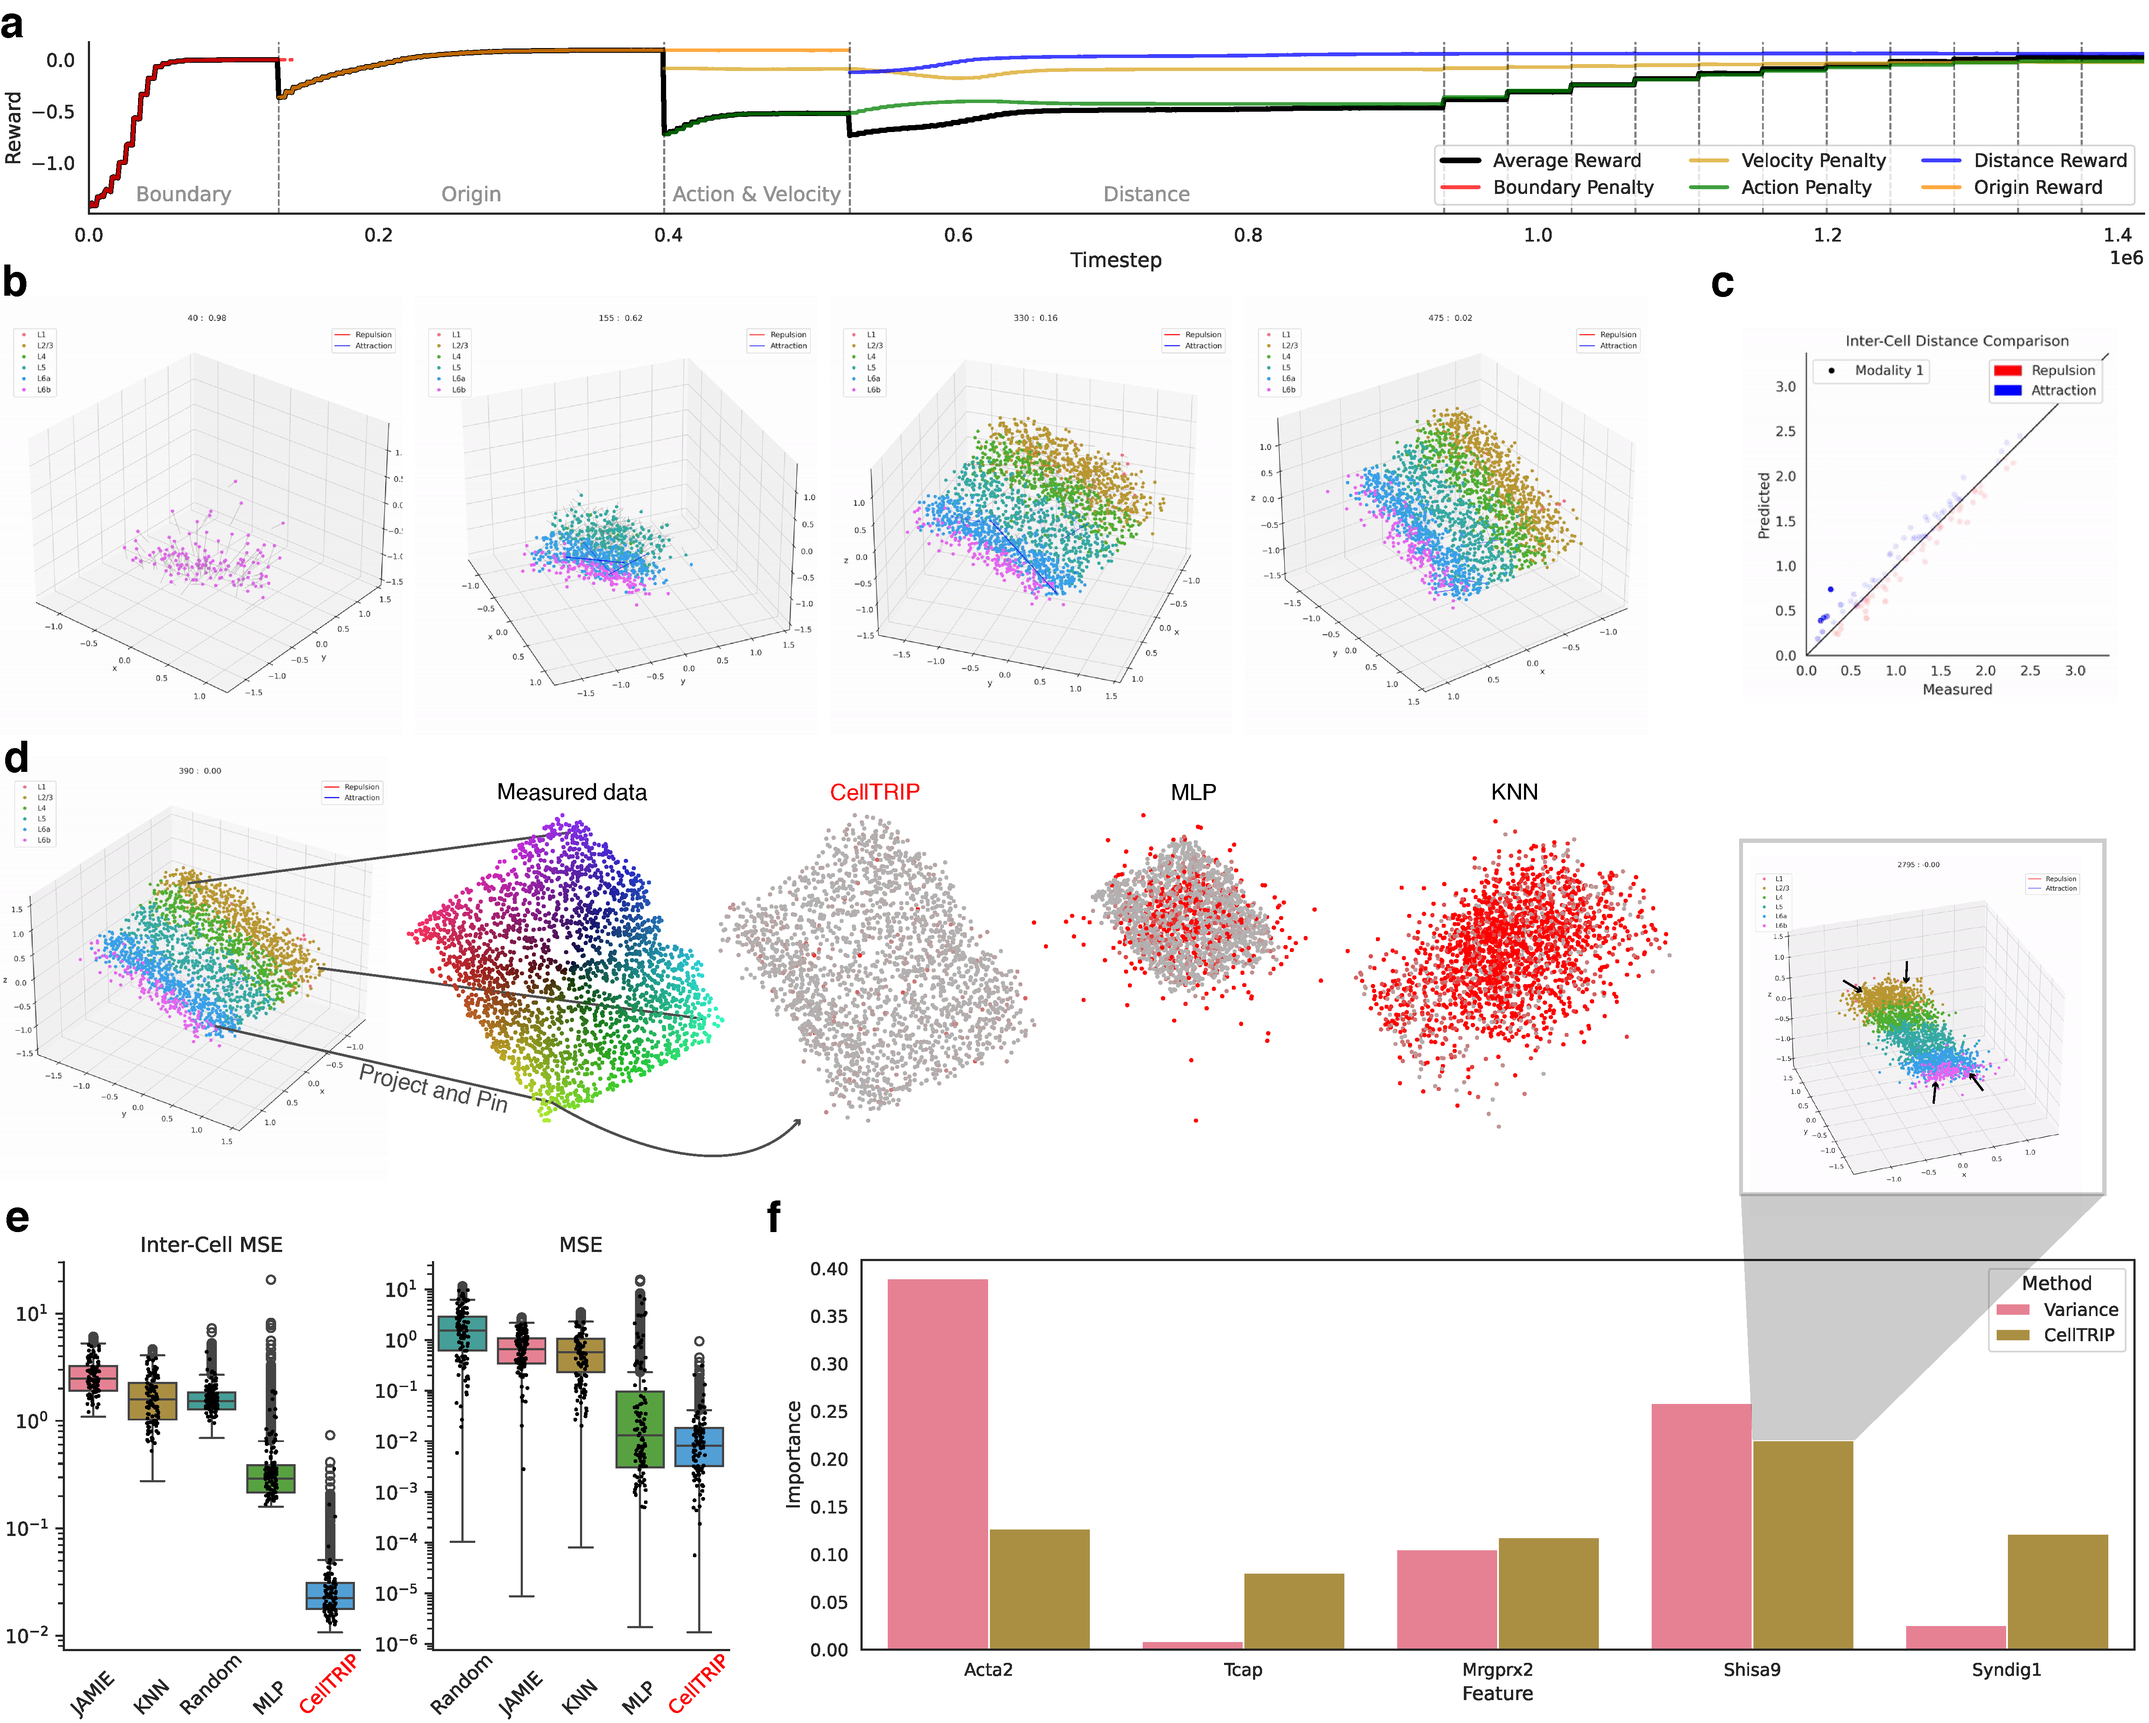
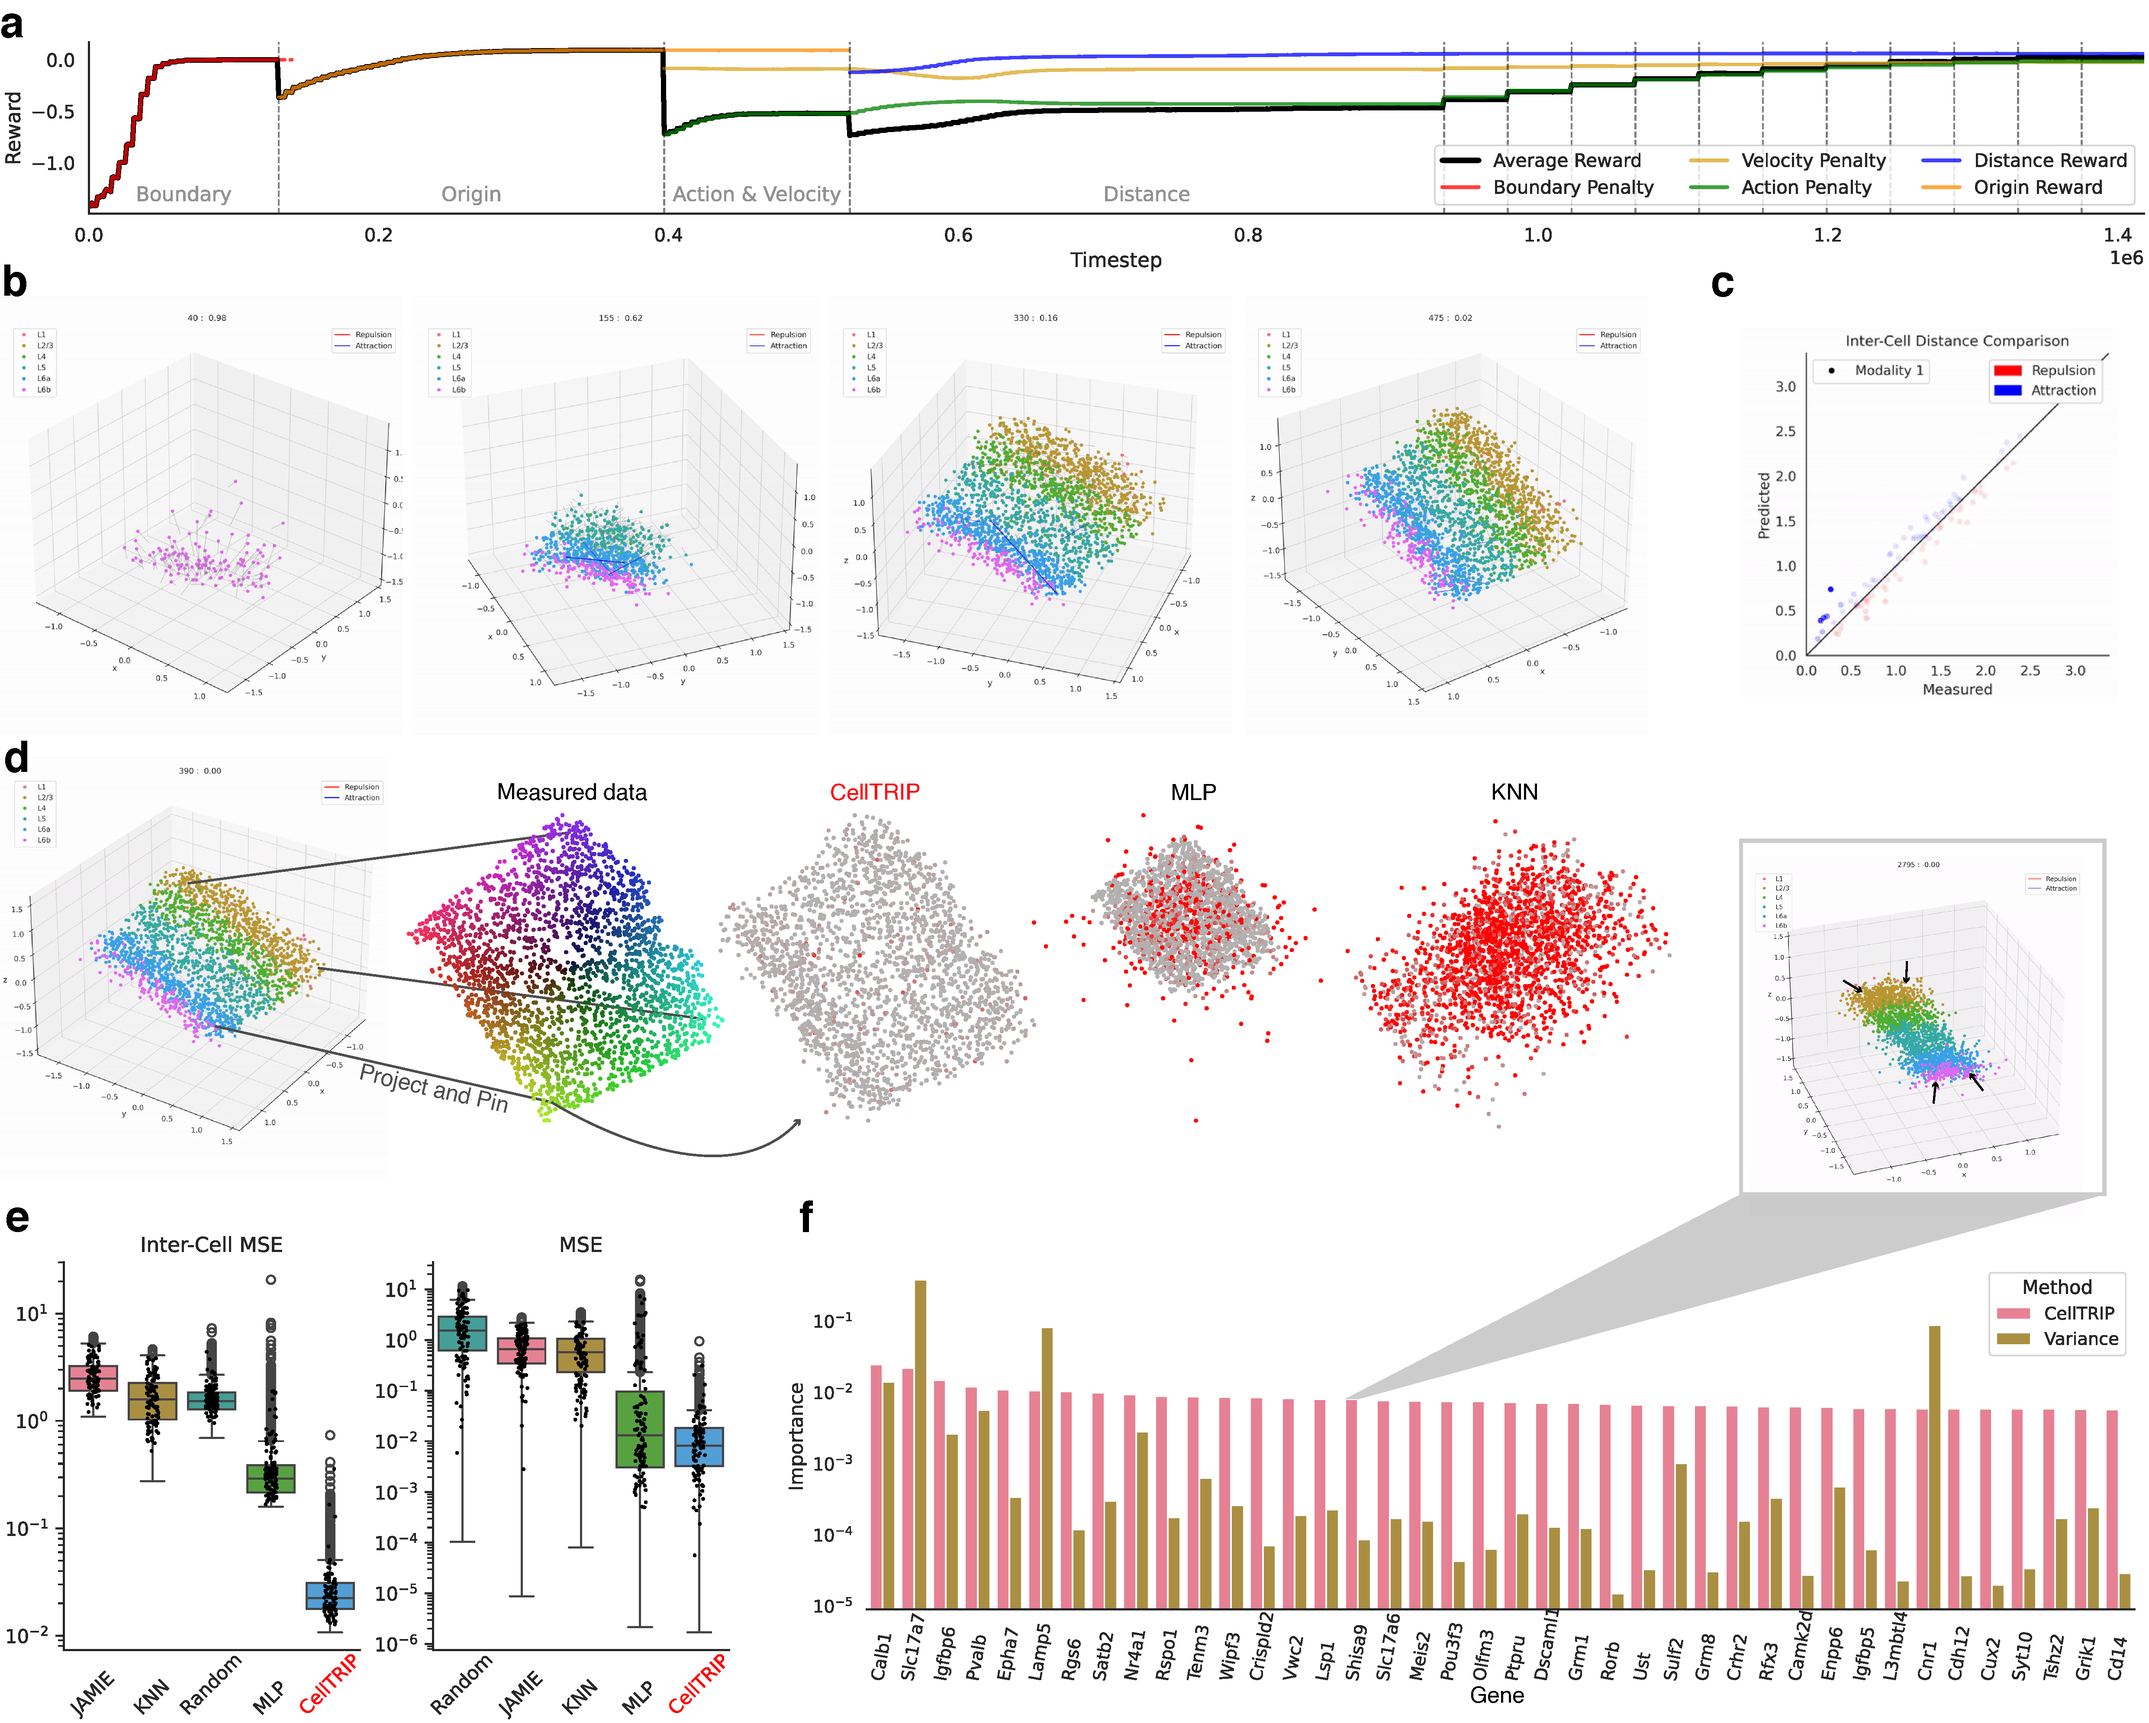
Fig. 6 export

Changed region(s): [[0.3746, 0.6854, 0.999, 0.997]]

diff --git a/celltrip/version.py b/celltrip/version.py
@@ -1,1 +1,1 @@
-__version__ = '1.0.0+2025-02-06'
+__version__ = '1.0.0+2025-02-06.1'

diff --git a/CHANGELOG.md b/CHANGELOG.md
@@ -1,5 +1,6 @@
-### 1.0.0+2025-02-06
+### 1.0.0+2025-02-06 (1-2)
 - Additional warnings and checks for perturbation analysis
+- Figure exports
 - Figure naming corrections
 - Figure updates
 - Perturbation comparison figure sorting and additional functionality
